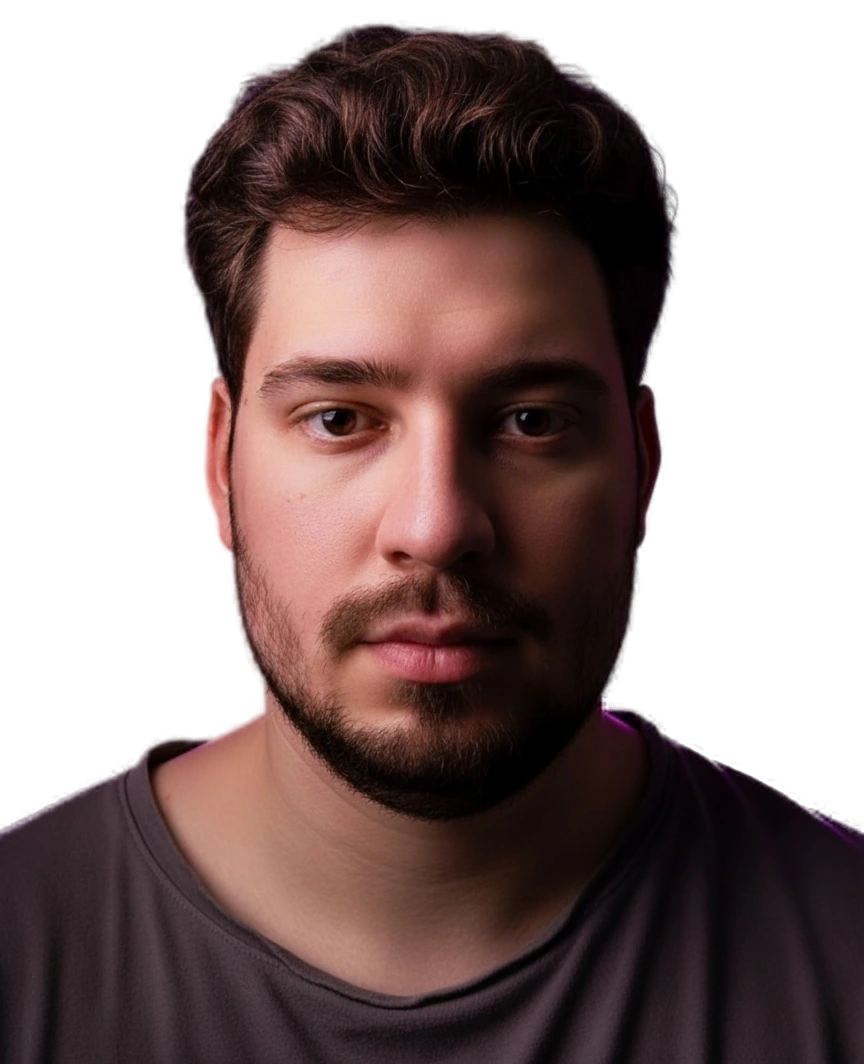
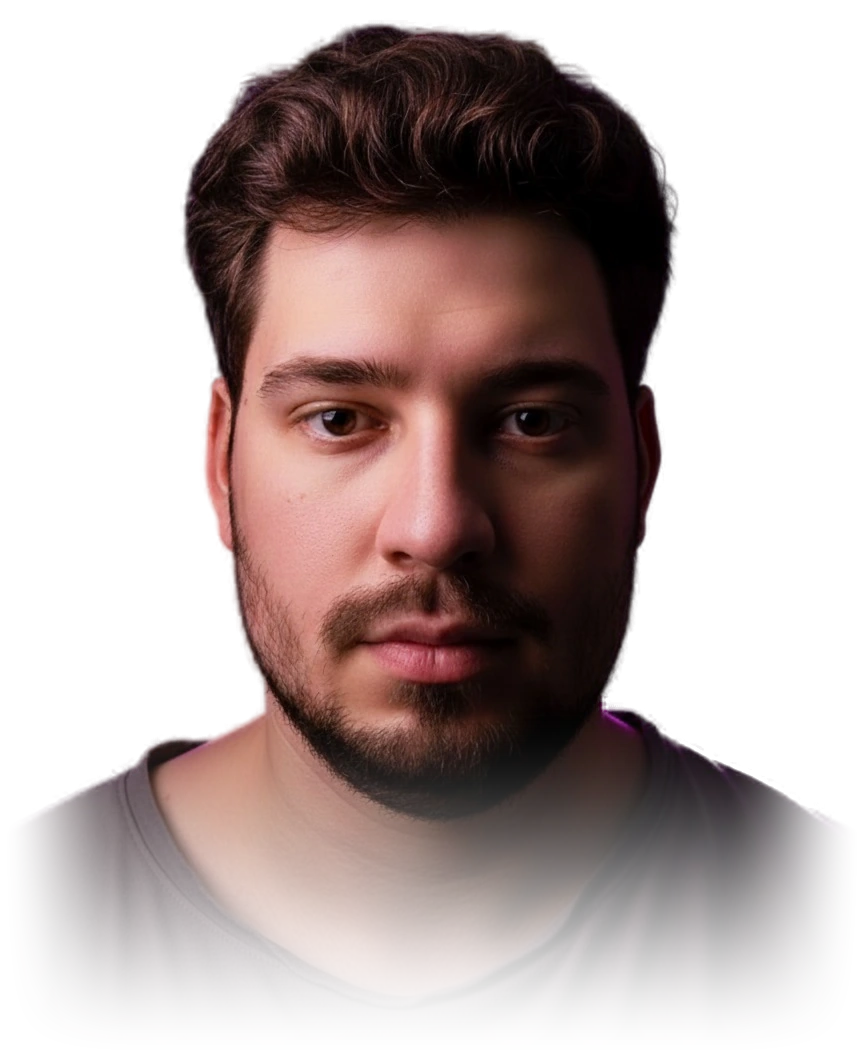
v2: purple glowing accent, bigger header with contacts, big hero CTA, soft shoulders, remove hero captions
Claude-Session: https://claude.ai/code/session_016mbQdegGQk4836ehLAt8v1

Changed region(s): [[0.0, 0.7133, 1.0, 1.0]]

diff --git a/v2/css/v2.css b/v2/css/v2.css
@@ -4,7 +4,7 @@
    Меняйте цвета и шрифты только в :root
    ============================================================ */
 :root{
-  --bg:#0B0A0F;--bg2:#14121a;--fg:#f3efe8;--mut:rgba(243,239,232,.58);--line:rgba(243,239,232,.14);--y:#ffda66;--red:#ff7a7a;
+  --bg:#0B0A0F;--bg2:#14121a;--fg:#f3efe8;--mut:rgba(243,239,232,.58);--line:rgba(243,239,232,.14);--y:#b44cff;--pan:#7b22e6;--glow:0 0 28px rgba(180,76,255,.65);--red:#ff7a7a;
   --disp:'Oswald','Arial Narrow',Arial,sans-serif;--body:'Manrope',Arial,sans-serif;--mono:'JetBrains Mono',ui-monospace,Menlo,monospace;
   --pad:clamp(18px,3.2vw,56px);--ease:cubic-bezier(.76,0,.24,1);--out:cubic-bezier(.16,1,.3,1)
 }
@@ -14,7 +14,7 @@ body{margin:0;background:var(--bg);color:var(--fg);font:400 clamp(15px,1.1vw,17p
 body.lock{overflow:hidden}
 img{display:block;max-width:100%;height:auto}a{color:inherit;text-decoration:none}button{font:inherit;color:inherit;background:none;border:0;cursor:pointer;padding:0}
 h1,h2,h3,h4,p,ul,ol,blockquote{margin:0;padding:0}ul,ol{list-style:none}
-::selection{background:var(--y);color:#111}
+::selection{background:var(--y);color:#fff}
 :focus-visible{outline:2px solid var(--y);outline-offset:3px}
 .mono{font-family:var(--mono);font-size:clamp(11px,.8vw,13px);letter-spacing:.08em;text-transform:uppercase;font-weight:400}
 .eyebrow{color:var(--mut)}
@@ -54,9 +54,9 @@ html.nopre .pre{display:none!important}
 /* ---------- кнопки ---------- */
 .btn{position:relative;display:inline-flex;align-items:center;justify-content:center;gap:12px;overflow:hidden;isolation:isolate;padding:13px 24px;border:1px solid var(--line);border-radius:999px;font:700 12px/1 var(--body);letter-spacing:.1em;text-transform:uppercase;white-space:nowrap;transition:color .4s,border-color .4s,transform .3s var(--out)}
 .btn::before{content:"";position:absolute;inset:0;z-index:-1;background:var(--y);transform:translateY(101%);transition:transform .5s var(--out);border-radius:inherit}
-.btn:hover{color:#111;border-color:var(--y)}.btn:hover::before{transform:none}
+.btn:hover{color:#fff;border-color:var(--y)}.btn:hover::before{transform:none}
 .btn svg{width:16px;height:16px;fill:none;stroke:currentColor;stroke-width:3;stroke-linecap:round;stroke-linejoin:round;transition:transform .4s var(--out)}.btn:hover svg{transform:rotate(45deg)}
-.btn-lg{padding:20px 34px;background:var(--y);color:#111;border-color:var(--y);font-size:13px}.btn-lg::before{background:var(--fg)}
+.btn-lg{padding:20px 34px;background:var(--y);color:#fff;border-color:var(--y);font-size:13px}.btn-lg::before{background:var(--fg)}
 .btn.ghost{border-color:var(--line)}
 .ic{width:20px;height:20px;fill:currentColor}
 
@@ -126,11 +126,11 @@ html.nopre .pre{display:none!important}
 
 /* ---------- основатель: коллекционная карточка ---------- */
 .founder{display:grid;grid-template-columns:minmax(300px,.8fr) 1.2fr;gap:clamp(32px,6vw,120px);align-items:start}
-.fo-card{position:sticky;top:96px;aspect-ratio:3/4.1;max-width:480px;width:100%;border-radius:26px;border:1px solid var(--line);background:linear-gradient(160deg,#1c1924,#0e0d13 60%);padding:18px;display:flex;flex-direction:column;overflow:hidden;transform-style:preserve-3d;transition:transform .5s var(--out);will-change:transform;box-shadow:0 40px 80px -30px rgba(0,0,0,.8),inset 0 0 0 1px rgba(255,218,102,.06)}
+.fo-card{position:sticky;top:96px;aspect-ratio:3/4.1;max-width:480px;width:100%;border-radius:26px;border:1px solid var(--line);background:linear-gradient(160deg,#1c1924,#0e0d13 60%);padding:18px;display:flex;flex-direction:column;overflow:hidden;transform-style:preserve-3d;transition:transform .5s var(--out);will-change:transform;box-shadow:0 40px 80px -30px rgba(0,0,0,.8),inset 0 0 0 1px rgba(180,76,255,.06)}
 .fo-card-top{display:flex;justify-content:space-between;color:var(--y)}
 .fo-photo{flex:1;margin:14px 0;border-radius:16px;overflow:hidden;position:relative;background:#18171d}.fo-photo img{width:100%;height:100%;object-fit:cover;object-position:50% 20%;transition:transform 1.2s var(--out)}.fo-card:hover .fo-photo img{transform:scale(1.05)}
 .fo-card-b h2{font:700 clamp(26px,2.4vw,40px)/1 var(--disp);text-transform:uppercase;margin:6px 0}.role{color:var(--mut)}
-.sheen{position:absolute;inset:0;pointer-events:none;background:radial-gradient(circle at var(--mx,50%) var(--my,0%),rgba(255,236,170,.28),transparent 45%);mix-blend-mode:soft-light;opacity:0;transition:opacity .4s}
+.sheen{position:absolute;inset:0;pointer-events:none;background:radial-gradient(circle at var(--mx,50%) var(--my,0%),rgba(214,170,255,.28),transparent 45%);mix-blend-mode:soft-light;opacity:0;transition:opacity .4s}
 .fo-card:hover .sheen,.pcard:hover .sheen{opacity:1}
 .fo-txt{display:grid;gap:clamp(24px,3vw,44px)}.fo-txt article{padding-top:22px;border-top:1px solid var(--line)}
 .fo-txt h3{font:700 clamp(24px,2.4vw,40px)/1 var(--disp);text-transform:uppercase;margin-bottom:12px}.fo-txt article p{color:var(--mut);max-width:62ch;font-size:clamp(15px,1.2vw,19px)}
@@ -147,7 +147,7 @@ html.nopre .pre{display:none!important}
 .pcard::after{content:"";position:absolute;inset:0;background:linear-gradient(0deg,rgba(11,10,15,.92),rgba(11,10,15,0) 55%);pointer-events:none}
 .pcard:hover .pcard-im img{transform:scale(1.07)!important;transition:transform 1.2s var(--out)}
 .pcard-n{position:absolute;top:16px;left:18px;z-index:2;color:var(--fg);mix-blend-mode:difference}
-.pcard-new{position:absolute;top:14px;right:14px;z-index:2;background:var(--y);color:#111;padding:6px 12px;border-radius:999px;font-size:10px}
+.pcard-new{position:absolute;top:14px;right:14px;z-index:2;background:var(--y);color:#fff;padding:6px 12px;border-radius:999px;font-size:10px}
 .pcard-b{position:absolute;left:0;right:0;bottom:0;z-index:2;padding:20px 20px 22px;display:grid;gap:8px}
 .pcard-b h3{font:600 clamp(20px,1.9vw,30px)/1.08 var(--disp);text-transform:uppercase}.pcard-b p{color:var(--y)}
 .sheen{z-index:3}
@@ -202,35 +202,35 @@ blockquote footer{display:flex;align-items:center;gap:14px;margin-top:24px;color
 @media(hover:none){.ig-o{opacity:1;background:linear-gradient(0deg,rgba(0,0,0,.7),transparent 45%)}.ig-cap{display:none}}
 
 /* ---------- форма ---------- */
-.fb{background:var(--y);color:#111;border-radius:clamp(24px,3vw,48px) clamp(24px,3vw,48px) 0 0;margin-top:clamp(40px,6vw,100px)}
-.fb ::selection{background:#111;color:var(--y)}
-.fb-h{font:700 clamp(54px,12.5vw,260px)/.88 var(--disp);text-transform:uppercase;letter-spacing:-.015em;margin-bottom:clamp(32px,5vw,90px)}.fb-h .out{-webkit-text-stroke:2px #111}
+.fb{background:var(--pan);color:#fff;border-radius:clamp(24px,3vw,48px) clamp(24px,3vw,48px) 0 0;margin-top:clamp(40px,6vw,100px)}
+.fb ::selection{background:#fff;color:var(--y)}
+.fb-h{font:700 clamp(54px,12.5vw,260px)/.88 var(--disp);text-transform:uppercase;letter-spacing:-.015em;margin-bottom:clamp(32px,5vw,90px)}.fb-h .out{-webkit-text-stroke:2px #fff}
 #form{display:grid;grid-template-columns:repeat(2,1fr);gap:clamp(20px,2.4vw,40px) clamp(24px,4vw,80px);max-width:1200px}
-.fld{position:relative;display:block}.fld .lb{display:block;color:rgba(17,17,17,.62);margin-bottom:8px}
-.fld input[type=text],.fld input[type=tel]{width:100%;background:none;border:0;border-bottom:1.5px solid #111;padding:10px 0 14px;font:500 clamp(20px,2vw,32px)/1.1 var(--body);color:#111;outline:0;border-radius:0}
+.fld{position:relative;display:block}.fld .lb{display:block;color:rgba(255,255,255,.62);margin-bottom:8px}
+.fld input[type=text],.fld input[type=tel]{width:100%;background:none;border:0;border-bottom:1.5px solid #fff;padding:10px 0 14px;font:500 clamp(20px,2vw,32px)/1.1 var(--body);color:#fff;outline:0;border-radius:0}
 .fld input:focus{border-bottom-width:3px;padding-bottom:12.5px}
-.msg{position:absolute;left:0;top:100%;margin-top:6px;font:500 12px var(--mono);color:#b3001b;opacity:0;transform:translateY(-4px);transition:.3s;pointer-events:none}.fld.err .msg{opacity:1;transform:none}.fld.err input,.fld.err .sel-btn{border-bottom-color:#b3001b}
-.sel{position:relative}.sel-btn{width:100%;display:flex;justify-content:space-between;align-items:center;gap:12px;text-align:left;border-bottom:1.5px solid #111;padding:10px 0 14px;font:500 clamp(20px,2vw,32px)/1.1 var(--body)}.sel-btn .ph{color:rgba(17,17,17,.45)}
-.sel-btn svg{width:20px;height:20px;flex:none;fill:none;stroke:#111;stroke-width:2.4;transition:transform .3s}.sel.open .sel-btn svg{transform:rotate(180deg)}
-.sel ul{position:absolute;left:0;right:0;top:100%;z-index:5;background:#111;color:var(--fg);border-radius:16px;padding:8px;margin-top:6px;opacity:0;visibility:hidden;transform:translateY(-8px);transition:.3s var(--out);box-shadow:0 30px 50px -20px rgba(0,0,0,.6)}
+.msg{position:absolute;left:0;top:100%;margin-top:6px;font:500 12px var(--mono);color:#ffd6de;opacity:0;transform:translateY(-4px);transition:.3s;pointer-events:none}.fld.err .msg{opacity:1;transform:none}.fld.err input,.fld.err .sel-btn{border-bottom-color:#ffd6de}
+.sel{position:relative}.sel-btn{width:100%;display:flex;justify-content:space-between;align-items:center;gap:12px;text-align:left;border-bottom:1.5px solid #fff;padding:10px 0 14px;font:500 clamp(20px,2vw,32px)/1.1 var(--body)}.sel-btn .ph{color:rgba(255,255,255,.45)}
+.sel-btn svg{width:20px;height:20px;flex:none;fill:none;stroke:#fff;stroke-width:2.4;transition:transform .3s}.sel.open .sel-btn svg{transform:rotate(180deg)}
+.sel ul{position:absolute;left:0;right:0;top:100%;z-index:5;background:#fff;color:var(--fg);border-radius:16px;padding:8px;margin-top:6px;opacity:0;visibility:hidden;transform:translateY(-8px);transition:.3s var(--out);box-shadow:0 30px 50px -20px rgba(0,0,0,.6)}
 .sel.open ul{opacity:1;visibility:visible;transform:none}.sel li{padding:14px 16px;border-radius:10px;cursor:pointer;font-weight:500;outline:0}.sel li:hover,.sel li:focus{background:rgba(255,255,255,.1);color:var(--y)}
 .hp{position:absolute;left:-9999px;opacity:0}
-.ck{display:flex;gap:14px;align-items:flex-start;cursor:pointer;font-size:clamp(14px,1vw,16px);line-height:1.4}.ck input{appearance:none;-webkit-appearance:none;flex:none;width:24px;height:24px;border:1.5px solid #111;border-radius:6px;margin:0;display:grid;place-items:center;cursor:pointer;transition:background .25s}
-.ck input:checked{background:#111}.ck input:checked::after{content:"";width:6px;height:11px;border:solid var(--y);border-width:0 2.5px 2.5px 0;transform:rotate(45deg) translate(-1px,-1px)}
-.ck a{text-decoration:underline;text-underline-offset:3px;text-decoration-thickness:1.5px}.fld.err .ck input{border-color:#b3001b}
+.ck{display:flex;gap:14px;align-items:flex-start;cursor:pointer;font-size:clamp(14px,1vw,16px);line-height:1.4}.ck input{appearance:none;-webkit-appearance:none;flex:none;width:24px;height:24px;border:1.5px solid #fff;border-radius:6px;margin:0;display:grid;place-items:center;cursor:pointer;transition:background .25s}
+.ck input:checked{background:#fff}.ck input:checked::after{content:"";width:6px;height:11px;border:solid var(--y);border-width:0 2.5px 2.5px 0;transform:rotate(45deg) translate(-1px,-1px)}
+.ck a{text-decoration:underline;text-underline-offset:3px;text-decoration-thickness:1.5px}.fld.err .ck input{border-color:#ffd6de}
 #form .fld:has(.ck),#form .btn-send,#form .form-err{grid-column:1/-1}
-.fb .btn-send{justify-self:start;background:#111;color:var(--y);border-color:#111}.fb .btn-send::before{background:var(--fg)}.fb .btn-send:hover{color:#111;border-color:var(--fg)}
-.form-err{color:#b3001b;font-weight:600;display:none}.form-err.show{display:block}
-.fb :focus-visible{outline-color:#111}
+.fb .btn-send{justify-self:start;background:#fff;color:var(--y);border-color:#fff}.fb .btn-send::before{background:var(--fg)}.fb .btn-send:hover{color:#fff;border-color:var(--fg)}
+.form-err{color:#ffd6de;font-weight:600;display:none}.form-err.show{display:block}
+.fb :focus-visible{outline-color:#fff}
 
 /* ---------- контакты ---------- */
-.contacts{background:var(--y);color:#111;padding-top:0}
-.contacts .eyebrow{color:rgba(17,17,17,.6)}.contacts .big-h{display:none}.contacts .sec-h{margin-bottom:16px}
-.ct{border-top:1.5px solid #111}
-.ct a{display:grid;grid-template-columns:minmax(120px,.5fr) 1fr auto;align-items:center;gap:16px;padding:clamp(18px,2.4vw,38px) 0;border-bottom:1.5px solid #111;transition:padding .5s var(--out),background .3s,color .3s}
-.ct a span{color:rgba(17,17,17,.62)}.ct a b{font:700 clamp(20px,3.4vw,58px)/1.05 var(--disp);text-transform:uppercase;overflow-wrap:anywhere;min-width:0}
-.ct a svg{width:clamp(22px,2.6vw,42px);height:clamp(22px,2.6vw,42px);fill:none;stroke:#111;stroke-width:2.6;stroke-linecap:round;stroke-linejoin:round;transition:transform .5s var(--out)}
-@media(hover:hover){.ct a:hover{background:#111;color:var(--y);padding-inline:20px}.ct a:hover span{color:rgba(255,218,102,.7)}.ct a:hover svg{stroke:var(--y);transform:rotate(45deg)}}
+.contacts{background:var(--pan);color:#fff;padding-top:0}
+.contacts .eyebrow{color:rgba(255,255,255,.6)}.contacts .big-h{display:none}.contacts .sec-h{margin-bottom:16px}
+.ct{border-top:1.5px solid #fff}
+.ct a{display:grid;grid-template-columns:minmax(120px,.5fr) 1fr auto;align-items:center;gap:16px;padding:clamp(18px,2.4vw,38px) 0;border-bottom:1.5px solid #fff;transition:padding .5s var(--out),background .3s,color .3s}
+.ct a span{color:rgba(255,255,255,.62)}.ct a b{font:700 clamp(20px,3.4vw,58px)/1.05 var(--disp);text-transform:uppercase;overflow-wrap:anywhere;min-width:0}
+.ct a svg{width:clamp(22px,2.6vw,42px);height:clamp(22px,2.6vw,42px);fill:none;stroke:#fff;stroke-width:2.6;stroke-linecap:round;stroke-linejoin:round;transition:transform .5s var(--out)}
+@media(hover:hover){.ct a:hover{background:#111;color:var(--y);padding-inline:20px}.ct a:hover span{color:rgba(180,76,255,.7)}.ct a:hover svg{stroke:var(--y);transform:rotate(45deg)}}
 
 /* ---------- подвал ---------- */
 footer{background:var(--bg);padding-top:clamp(20px,3vw,48px);overflow:hidden}
@@ -286,7 +286,7 @@ html.has-cur .cur{display:block}
 .cur i{position:fixed;left:-3px;top:-3px;width:6px;height:6px;border-radius:50%;background:#fff;mix-blend-mode:difference}
 .cur span{position:fixed;left:0;top:0;width:44px;height:44px;margin:-22px 0 0 -22px;border:1px solid #fff;border-radius:50%;mix-blend-mode:difference;display:grid;place-items:center;font:700 11px/1 var(--mono);letter-spacing:.1em;text-transform:uppercase;color:transparent;transition:width .45s var(--out),height .45s var(--out),margin .45s var(--out),background .3s,border-color .3s,opacity .3s}
 .cur.hov span{width:64px;height:64px;margin:-32px 0 0 -32px;background:rgba(255,255,255,.14)}
-.cur.lab span{width:96px;height:96px;margin:-48px 0 0 -48px;background:var(--y);border-color:var(--y);color:#111;mix-blend-mode:normal}
+.cur.lab span{width:96px;height:96px;margin:-48px 0 0 -48px;background:var(--y);border-color:var(--y);color:#fff;mix-blend-mode:normal}
 .cur.out span,.cur.out i{opacity:0}
 html.has-cur [data-cursor]{cursor:none}
 /* шторка при переходах */
@@ -330,11 +330,11 @@ html:not(.js) .mq-t{animation:none}
 .sv{position:sticky;top:calc(84px + var(--i,0)*20px);min-height:min(62vh,540px);margin-bottom:clamp(14px,2.4vw,34px);padding:clamp(20px,2.8vw,44px);border:1px solid var(--line);border-radius:28px;background:linear-gradient(160deg,#1a1822,#0e0d13);grid-template-columns:clamp(40px,5vw,80px) 1fr clamp(220px,30vw,460px);gap:0 clamp(12px,2.4vw,40px);transform-origin:50% 0;overflow:hidden;box-shadow:0 -24px 50px -30px rgba(0,0,0,.9)}
 .sv-n{padding-top:.5em}.sv h3{font-size:clamp(28px,4.6vw,86px)}.sv-a{display:none}.sv:hover h3{transform:none;color:var(--fg)}
 .sv-im{display:block;align-self:stretch;border-radius:18px;overflow:hidden;position:relative;min-height:220px}.sv-im img{position:absolute;inset:-12% 0;width:100%;height:124%;object-fit:cover}
-.sv::after{content:"";position:absolute;right:-8%;top:-30%;width:50%;aspect-ratio:1;border-radius:50%;background:radial-gradient(circle,rgba(255,218,102,.12),transparent 65%);pointer-events:none}
+.sv::after{content:"";position:absolute;right:-8%;top:-30%;width:50%;aspect-ratio:1;border-radius:50%;background:radial-gradient(circle,rgba(180,76,255,.12),transparent 65%);pointer-events:none}
 /* отзывы: слайдер + светлая панель */
 .reviews{background:var(--fg);color:#111;border-radius:0}
 .reviews .eyebrow,.reviews blockquote footer,.reviews .sl-ui{color:rgba(17,17,17,.6)}
-.reviews .rate b{color:#111}.reviews .rate i{color:#c99a00}.reviews .rv-top{border-color:rgba(17,17,17,.18)}
+.reviews .rate b{color:#111}.reviews .rate i{color:#8f2bff}.reviews .rv-top{border-color:rgba(17,17,17,.18)}
 .reviews .btn{border-color:rgba(17,17,17,.25)}.reviews .btn:hover{color:#111}
 .reviews blockquote footer img{filter:invert(1) brightness(.2)}
 .slider{margin-inline:calc(var(--pad)*-1);padding-inline:var(--pad);overflow:hidden;cursor:grab;touch-action:pan-y;-webkit-user-select:none;user-select:none;margin-top:clamp(8px,2vw,24px)}.slider.drag{cursor:grabbing}
@@ -354,7 +354,7 @@ footer{position:relative}
 .wm{font:700 clamp(80px,27vw,560px)/.82 var(--disp);text-align:center;letter-spacing:-.02em;white-space:nowrap;overflow:hidden;padding:clamp(24px,4vw,70px) 0 clamp(10px,2vw,30px);color:var(--fg)}
 .wm .c{transition:color .3s}.wm .c:hover{color:var(--y)}
 .totop{position:absolute;right:var(--pad);top:clamp(16px,2.4vw,36px);z-index:3;width:104px;height:104px;border:1px solid var(--line);border-radius:50%;display:grid;place-items:center;align-content:center;gap:6px;color:var(--fg);transition:background .4s,color .4s,transform .4s var(--out)}
-.totop svg{width:18px;height:18px;fill:none;stroke:currentColor;stroke-width:3;stroke-linecap:round;stroke-linejoin:round;transform:rotate(-90deg)}.totop:hover{background:var(--y);color:#111;border-color:var(--y)}
+.totop svg{width:18px;height:18px;fill:none;stroke:currentColor;stroke-width:3;stroke-linecap:round;stroke-linejoin:round;transform:rotate(-90deg)}.totop:hover{background:var(--y);color:#fff;border-color:var(--y)}
 @media(max-width:1023px){.side{display:none}}
 @media(max-width:700px){
  .hs-track{grid-template-columns:1fr}.hs-track .pcard:nth-child(n){margin-top:0}.hs-track .pcard{aspect-ratio:4/5}
@@ -366,13 +366,13 @@ footer{position:relative}
 /* =====================  HERO 2.0: вырезанный портрет, свечение, слои  ===================== */
 .hero{isolation:isolate;background:radial-gradient(120% 80% at 50% 110%,#15121c 0%,var(--bg) 60%)}
 .hero-glow{position:absolute;z-index:0;border-radius:50%;pointer-events:none;will-change:transform}
-.hero-glow.g1{left:50%;top:46%;width:min(92vh,70vw);aspect-ratio:1;margin:calc(min(92vh,70vw)/-2) 0 0 calc(min(92vh,70vw)/-2);background:radial-gradient(closest-side,rgba(255,218,102,.62),rgba(255,196,60,.22) 48%,rgba(255,196,60,0) 74%);filter:blur(10px)}
+.hero-glow.g1{left:50%;top:46%;width:min(92vh,70vw);aspect-ratio:1;margin:calc(min(92vh,70vw)/-2) 0 0 calc(min(92vh,70vw)/-2);background:radial-gradient(closest-side,rgba(180,76,255,.62),rgba(150,60,255,.22) 48%,rgba(150,60,255,0) 74%);filter:blur(10px)}
 .hero-glow.g2{left:50%;top:78%;width:min(120vh,90vw);aspect-ratio:1;margin:calc(min(120vh,90vw)/-2) 0 0 calc(min(120vh,90vw)/-2);background:radial-gradient(closest-side,rgba(160,60,255,.34),rgba(120,40,200,.1) 55%,rgba(120,40,200,0) 75%);filter:blur(24px)}
 .hero-fig{position:absolute;inset:0;z-index:2;display:flex;justify-content:center;align-items:flex-end;pointer-events:none;transform:none;width:auto;aspect-ratio:auto;left:0;bottom:0}
 .hero-ph{position:relative;height:min(94vh,calc(100vw*1.25));aspect-ratio:864/1064;will-change:transform;transform-style:preserve-3d}
 .hero-bob{position:absolute;inset:0}
 .hero-ph img,.hero-ph .me{position:absolute;inset:0;width:100%;height:100%;object-fit:contain;object-position:50% 100%;filter:none;mix-blend-mode:normal;-webkit-mask-image:none;mask-image:none;user-select:none}
-.hero-ph .me:not(.lit){filter:drop-shadow(0 0 38px rgba(255,218,102,.30)) drop-shadow(0 0 2px rgba(255,236,170,.55)) contrast(1.04) saturate(1.05)}
+.hero-ph .me:not(.lit){filter:drop-shadow(0 0 38px rgba(180,76,255,.30)) drop-shadow(0 0 2px rgba(214,170,255,.55)) contrast(1.04) saturate(1.05)}
 /* «фонарик»: осветлённая копия видна только вокруг курсора */
 .hero-ph .me.lit{filter:brightness(1.9) saturate(1.15) contrast(1.05);mix-blend-mode:screen;opacity:.75;-webkit-mask-image:radial-gradient(circle 190px at var(--lx,50%) var(--ly,35%),#000 0,rgba(0,0,0,.55) 45%,transparent 100%);mask-image:radial-gradient(circle 190px at var(--lx,50%) var(--ly,35%),#000 0,rgba(0,0,0,.55) 45%,transparent 100%)}
 .hero-h{position:absolute;z-index:auto;left:var(--pad);right:var(--pad);top:calc(46% - .86em);margin:0;font-size:clamp(58px,16.4vw,340px)}
@@ -404,3 +404,44 @@ blockquote footer{background:none;padding:0;overflow:visible;position:static;dis
 .reviews .slide:nth-child(2) footer img{filter:none}
 /* услуги: карточки без затемнения и без «проваливания» */
 .sv{filter:none!important;opacity:1!important}
+
+/* ===== фиолетовый акцент: яркий и светящийся ===== */
+.fb,.contacts{background:linear-gradient(135deg,#8a2be2,#6a1bd0 60%,#7b22e6)}
+.fb .btn-send{background:#fff;color:#6a1bd0;border-color:#fff}.fb .btn-send::before{background:#14062b}.fb .btn-send:hover{color:#fff;border-color:#14062b}
+.fb ::selection{background:#fff;color:#6a1bd0}
+.sel ul{background:#14062b;color:#fff}.sel li:hover,.sel li:focus{color:#d9a8ff}
+.ck input:checked{background:#fff}.ck input:checked::after{border-color:#6a1bd0}
+@media(hover:hover){.ct a:hover{background:#14062b;color:#fff}.ct a:hover span{color:#d9a8ff}.ct a:hover svg{stroke:#d9a8ff}}
+.slide:nth-child(3){background:linear-gradient(135deg,#9b3dff,#6a1bd0);border-color:#8a2be2;color:#fff}.slide:nth-child(3) footer{color:rgba(255,255,255,.8)}.slide:nth-child(3) footer img,.reviews .slide:nth-child(3) footer img{filter:none}
+.reviews .rate i{color:#8f2bff}
+/* свечение */
+.btn-lg,.nav-cta,.pcard-new{box-shadow:var(--glow)}
+.btn-lg:hover,.nav-cta:hover{box-shadow:0 0 44px rgba(180,76,255,.9)}
+.hero-h .fill{text-shadow:0 0 36px rgba(180,76,255,.75),0 0 90px rgba(180,76,255,.45)}
+.st b{text-shadow:0 0 40px rgba(180,76,255,.55)}
+.hero-glow.g1{background:radial-gradient(closest-side,rgba(180,76,255,.78),rgba(150,60,255,.28) 48%,rgba(150,60,255,0) 74%)}
+.hero-glow.g2{background:radial-gradient(closest-side,rgba(70,90,255,.4),rgba(70,60,220,.12) 55%,rgba(70,60,220,0) 75%)}
+.hero-ph .me:not(.lit){filter:drop-shadow(0 0 42px rgba(180,76,255,.5)) drop-shadow(0 0 3px rgba(214,170,255,.7)) contrast(1.04)}
+.scroll i::after,.pre-bar i,.prog{box-shadow:0 0 14px rgba(180,76,255,.9)}
+/* шапка: крупнее меню, контакты справа, заметная кнопка */
+.nav{padding:20px var(--pad)}
+.logo{font-size:28px}
+.links{gap:clamp(20px,2.6vw,46px)}
+.links a{font-size:clamp(14px,1.05vw,17px);letter-spacing:.09em}.links a span{font-size:11px}
+.nav-r{gap:clamp(12px,1.4vw,24px)}
+.nav-ct{display:flex;align-items:center;gap:14px}
+.nav-tel{font:500 15px var(--mono);letter-spacing:.04em;white-space:nowrap;transition:color .3s}.nav-tel:hover{color:var(--y)}
+.nav-ic{width:42px;height:42px;display:grid;place-items:center;border:1px solid var(--line);border-radius:50%;transition:background .3s,border-color .3s,box-shadow .3s}.nav-ic .ic{width:20px;height:20px}
+.nav-ic:hover{background:var(--y);border-color:var(--y);box-shadow:var(--glow)}
+.nav .nav-cta{padding:17px 30px;font-size:14px;background:var(--y);color:#fff;border-color:var(--y)}.nav .nav-cta::before{background:#fff}.nav .nav-cta:hover{color:#6a1bd0}
+@media(max-width:1280px){.nav-tel{display:none}}
+@media(max-width:1100px){.nav-ct{display:none}.nav .nav-cta{display:inline-flex}.nav-r>.btn{display:inline-flex}}
+@media(max-width:700px){.nav .nav-cta{display:none}}
+/* большая кнопка внизу hero */
+.hero-cta .btn-lg{padding:clamp(24px,2.4vw,36px) clamp(36px,4vw,64px);font-size:clamp(16px,1.4vw,22px);gap:18px;animation:pulse 2.8s ease-in-out infinite}
+.hero-cta .btn-lg svg{width:26px;height:26px}
+@keyframes pulse{0%,100%{box-shadow:0 0 28px rgba(180,76,255,.55)}50%{box-shadow:0 0 64px rgba(180,76,255,.95)}}
+@media(max-width:700px){.hero-cta{flex-direction:column;align-items:stretch;gap:16px}.hero-cta .btn-lg{width:100%;padding:26px 24px;font-size:17px}.hero-cta .scroll{display:none}}
+.links a .rl,.links a .rl>span{font:500 clamp(14px,1.05vw,17px)/1.25 var(--body);color:var(--fg);letter-spacing:.09em;text-transform:uppercase}
+.links a:hover .rl>span{color:var(--y)}
+.links a>span:not(.rl){font:500 11px var(--mono);color:var(--y);letter-spacing:.04em}

diff --git a/v2/index.html b/v2/index.html
@@ -35,7 +35,8 @@
     <a href="#work"><span>01</span>Портфолио</a><a href="#services"><span>02</span>Услуги</a><a href="#approach"><span>03</span>Подход</a><a href="#reviews"><span>04</span>Отзывы</a><a href="#contacts"><span>05</span>Контакты</a>
   </nav>
   <div class="nav-r">
-    <a class="btn" href="#feedback"><span>Заказать</span></a>
+    <div class="nav-ct"><a class="nav-tel" href="tel:+375257922411">+375 (25) 792-24-11</a><a class="nav-ic" href="https://t.me/maximilian_designer" target="_blank" rel="noopener" aria-label="Telegram"><svg class="ic"><use href="#i-tg"/></svg></a><a class="nav-ic" href="https://www.instagram.com/maximilian_designer" target="_blank" rel="noopener" aria-label="Instagram"><svg class="ic"><use href="#i-ig"/></svg></a></div>
+    <a class="btn nav-cta" href="#feedback"><span>Заказать</span></a>
     <button class="burger" id="burger" type="button" aria-label="Меню" aria-expanded="false" aria-controls="menu"><span></span><span></span></button>
   </div>
 </header>
@@ -49,7 +50,7 @@
 <main>
 <!-- ============ HERO ============ -->
 <section class="hero" id="hero" aria-label="Maximum Studio">
-  <div class="hero-top mono"><span>Минск, Беларусь</span><span>С 2019</span><span class="hide-s">UX/UI · WEB · MOBILE · CRM</span></div>
+  <div class="hero-top mono"><span class="hide-s">UX/UI · WEB · MOBILE · CRM</span></div>
   <div class="hero-glow g1" aria-hidden="true"></div><div class="hero-glow g2" aria-hidden="true"></div>
   <div class="hero-fig" aria-hidden="true"><div class="hero-ph" id="hero-ph"><div class="hero-bob"><img class="me" src="../v2/img/me.webp" width="864" height="1064" alt="" fetchpriority="high"><img class="me lit" src="../v2/img/me.webp" width="864" height="1064" alt=""></div></div></div>
   <h1 class="hero-h">

diff --git a/v2/template.html b/v2/template.html
@@ -35,7 +35,8 @@
     <a href="#work"><span>01</span>[[n2]]</a><a href="#services"><span>02</span>[[n1]]</a><a href="#approach"><span>03</span>[[v2_nap]]</a><a href="#reviews"><span>04</span>[[n3]]</a><a href="#contacts"><span>05</span>[[n4]]</a>
   </nav>
   <div class="nav-r">
-    <a class="btn" href="#feedback"><span>[[order]]</span></a>
+    <div class="nav-ct"><a class="nav-tel" href="tel:+375257922411">+375 (25) 792-24-11</a><a class="nav-ic" href="https://t.me/maximilian_designer" target="_blank" rel="noopener" aria-label="Telegram"><svg class="ic"><use href="#i-tg"/></svg></a><a class="nav-ic" href="https://www.instagram.com/maximilian_designer" target="_blank" rel="noopener" aria-label="Instagram"><svg class="ic"><use href="#i-ig"/></svg></a></div>
+    <a class="btn nav-cta" href="#feedback"><span>[[order]]</span></a>
     <button class="burger" id="burger" type="button" aria-label="[[v2_menu]]" aria-expanded="false" aria-controls="menu"><span></span><span></span></button>
   </div>
 </header>
@@ -49,7 +50,7 @@
 <main>
 <!-- ============ HERO ============ -->
 <section class="hero" id="hero" aria-label="Maximum Studio">
-  <div class="hero-top mono"><span>[[v2_loc]]</span><span>[[v2_since]]</span><span class="hide-s">UX/UI · WEB · MOBILE · CRM</span></div>
+  <div class="hero-top mono"><span class="hide-s">UX/UI · WEB · MOBILE · CRM</span></div>
   <div class="hero-glow g1" aria-hidden="true"></div><div class="hero-glow g2" aria-hidden="true"></div>
   <div class="hero-fig" aria-hidden="true"><div class="hero-ph" id="hero-ph"><div class="hero-bob"><img class="me" src="{{ROOT}}v2/img/me.webp" width="864" height="1064" alt="" fetchpriority="high"><img class="me lit" src="{{ROOT}}v2/img/me.webp" width="864" height="1064" alt=""></div></div></div>
   <h1 class="hero-h">

diff --git a/v2/js/v2.js b/v2/js/v2.js
@@ -83,7 +83,7 @@ var cko=$('#ck-open');if(cko)cko.addEventListener('click',function(){ckShow(true
 /* ---------- мелочи ---------- */
 $$('footer img,.reviews img').forEach(function(i){i.addEventListener('error',function(){i.style.display='none'})});
 var yr=$('#year');if(yr)yr.textContent=new Date().getFullYear();
-window.confetti=function(){if(calm)return;var cv=document.createElement('canvas');cv.className='confetti';cv.width=innerWidth;cv.height=innerHeight;document.body.appendChild(cv);var g=cv.getContext('2d'),col=['#ffda66','#fff','#ffda66','#ffe9a3','#ffc93a'],P=[];
+window.confetti=function(){if(calm)return;var cv=document.createElement('canvas');cv.className='confetti';cv.width=innerWidth;cv.height=innerHeight;document.body.appendChild(cv);var g=cv.getContext('2d'),col=['#b44cff','#fff','#d08bff','#8f2bff','#e6c4ff'],P=[];
  for(var i=0;i<120;i++)P.push({x:innerWidth/2,y:innerHeight*.45,vx:(Math.random()-.5)*16,vy:-Math.random()*14-4,s:4+Math.random()*6,r:Math.random()*6,vr:(Math.random()-.5)*.4,c:col[i%5]});
  var t=0;(function f(){g.clearRect(0,0,cv.width,cv.height);P.forEach(function(p){p.vy+=.35;p.vx*=.99;p.x+=p.vx;p.y+=p.vy;p.r+=p.vr;g.save();g.translate(p.x,p.y);g.rotate(p.r);g.fillStyle=p.c;g.fillRect(-p.s/2,-p.s/4,p.s,p.s/2);g.restore()});
   if(++t<130)requestAnimationFrame(f);else cv.remove()})()};
